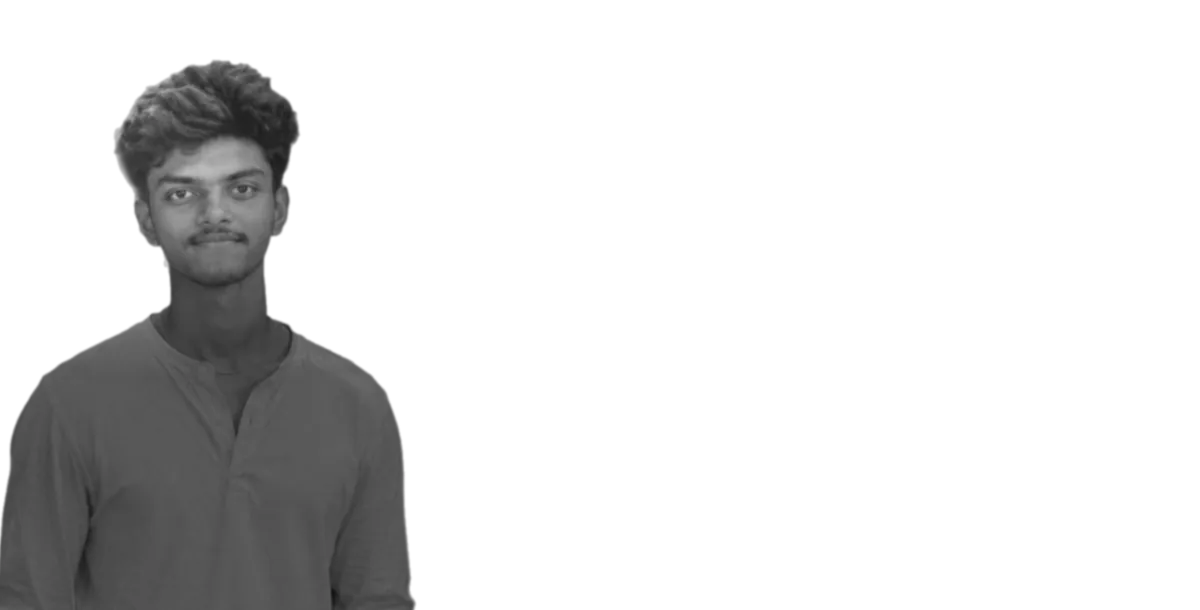
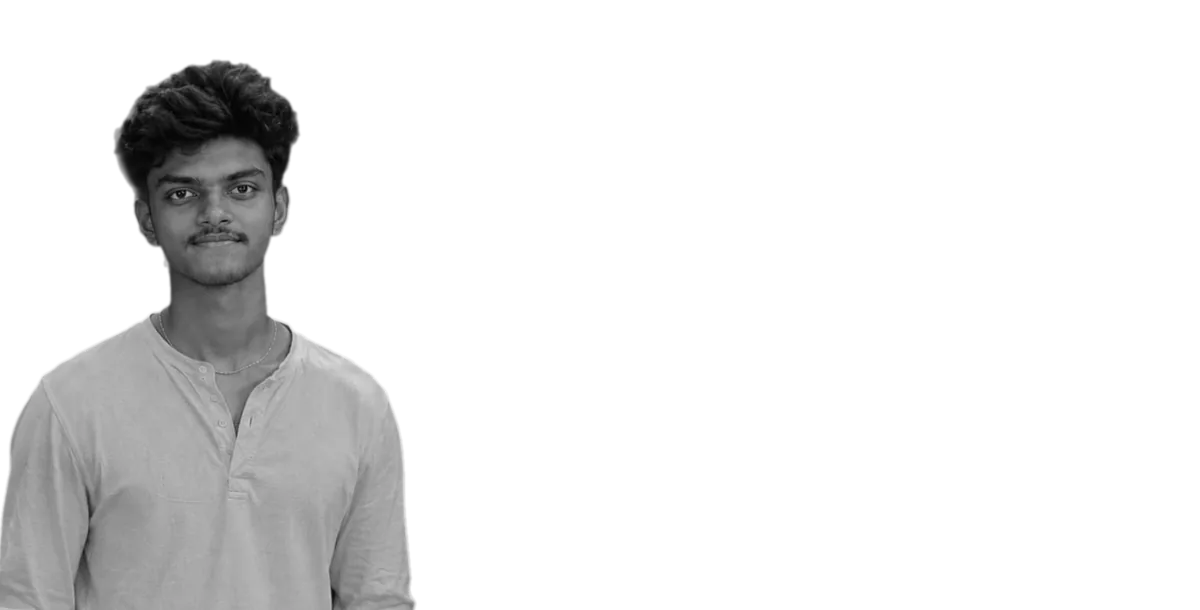
Show Shyan's photo as shot, without the added lighting

Changed region(s): [[0.0, 0.4361, 0.37, 1.0], [0.0925, 0.0934, 0.2467, 0.4049]]

diff --git a/scripts/team_photo.py b/scripts/team_photo.py
@@ -12,8 +12,6 @@ The originals in assets/team are only read, never changed.
 """
 
 import math
-
-import numpy as np
 from pathlib import Path
 
 from PIL import Image, ImageFilter, ImageOps
@@ -31,10 +29,9 @@ DEEP = (29, 31, 56)
 # the chin and the face centre. Faces are scaled so eye-to-chin matches,
 # times scale where a face still reads smaller than the others.
 # x: face centre in the row; drop: how far the eyes sit below EYE_Y
-# (negative is higher); rough: a cleanly lit studio photo, given plainer,
-# natural light (sun from the top left) so it looks as casual as the others.
+# (negative is higher).
 PEOPLE = {
-    "shyan": dict(file="shyan-3.jpg", eye=372, chin=498, cx=563, scale=1.0, x=330, drop=0, rough=True),
+    "shyan": dict(file="shyan-3.jpg", eye=372, chin=498, cx=563, scale=1.0, x=330, drop=0),
     "suhail": dict(file="suhail.heic", eye=1130, chin=1250, cx=650, scale=1.06, x=590, drop=-6),
     "sudhir": dict(file="sudhir.jpg", eye=890, chin=998, cx=846, scale=1.0, x=850, drop=0),
     "ajay": dict(file="ajay.heic", eye=1030, chin=1165, cx=1092, scale=1.0, x=1110, drop=4),
@@ -96,34 +93,12 @@ def stats(grey, alpha, box):
 S_CURVE = [round(255 * (0.5 + 0.5 * math.tanh(1.8 * (g / 255 - 0.5)) / math.tanh(0.9))) for g in range(256)]
 
 
-def roughen(grey, alpha, box):
-    """Natural light: flatter and a little dimmer than the studio original,
-    slightly soft, with sun falling on him from the top left: the hair and
-    that side of the face catch it, the far side and lower body fall into
-    shade."""
-    mean, std = stats(grey, alpha, box)
-    grey = grey.point(lambda g: max(0, min(255, round(mean - 10 + (g - mean) * 0.78))))
-    w = box[2] - box[0]
-    # The sun sits above and to the left of the head.
-    sx, sy = box[0] + 0.05 * w, box[1] - 0.25 * w
-    reach = 1.9 * w
-    yy, xx = np.mgrid[0 : grey.height, 0 : grey.width]
-    near = np.clip(1 - np.hypot(xx - sx, yy - sy) / reach, 0, 1)
-    g = np.asarray(grey, dtype=np.float32)
-    # Shade away from the sun, a warm-white lift where it lands.
-    g = g * (0.6 + 0.4 * near) + 190 * near**1.6 * (g / 255) ** 0.5
-    grey = Image.fromarray(np.clip(g, 0, 255).astype(np.uint8))
-    return grey.filter(ImageFilter.GaussianBlur(0.9))
-
-
-def to_grey(rgba, box, target=None, rough=False):
+def to_grey(rgba, box, target=None):
     """Black and white. With a target (mean, std), the face is graded to
     match it and polished: a touch of smoothing, the S-curve, then crisp
     detail. Without one, the photo is only turned grey."""
     grey = ImageOps.grayscale(rgba.convert("RGB"))
     alpha = rgba.getchannel("A")
-    if rough:
-        grey = roughen(grey, alpha, box)
     if target:
         mean, std = stats(grey, alpha, box)
         t_mean, t_std = target
@@ -138,11 +113,10 @@ def main():
     canvases = {name: layer(cut_out(p, session), p) for name, p in PEOPLE.items()}
     ref = canvases[REFERENCE]
     target = stats(ImageOps.grayscale(ref.convert("RGB")), ref.getchannel("A"), face_box(PEOPLE[REFERENCE]))
-    # The reference sets the grade before any roughening, so the others keep it.
     print("reference face", [round(v, 1) for v in target])
     layers = {}
     for name, p in PEOPLE.items():
-        layers[name] = to_grey(canvases[name], face_box(p), None if name == REFERENCE else target, p.get("rough", False))
+        layers[name] = to_grey(canvases[name], face_box(p), None if name == REFERENCE else target)
         layers[name].save(OUT / f"team-{name}.webp", quality=82, method=6)
         print("layer", name)
     group = Image.new("RGBA", layers[REFERENCE].size, DEEP + (255,))
